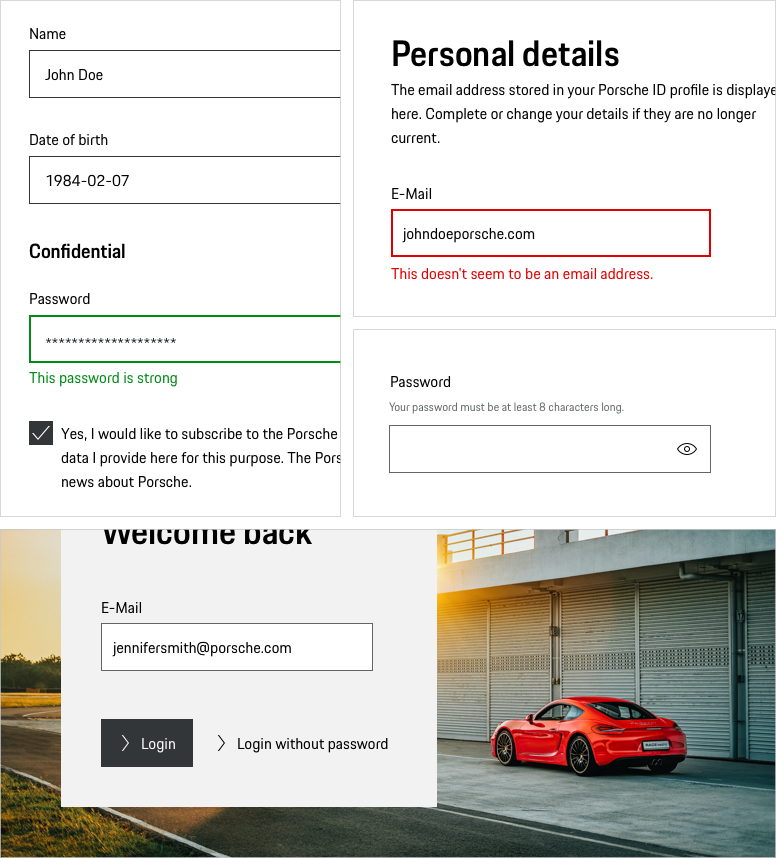
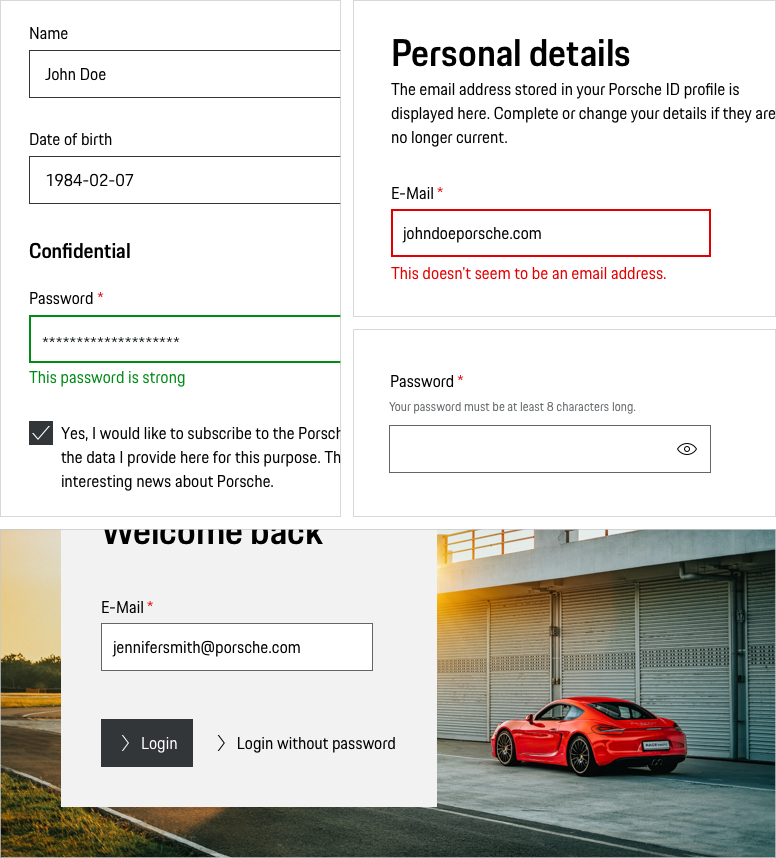
Bug fixes in forms docu | op | #992

diff --git a/packages/storefront/storefront.config.ts b/packages/storefront/storefront.config.ts
@@ -124,6 +124,10 @@ export const config: StorefrontConfig = {
       Resources: [
         // @ts-ignore
         () => import(`@/pages/patterns/forms/resources.md`)
+      ],
+      Legal: [
+        // @ts-ignore
+        () => import(`@/pages/patterns/forms/legal.md`)
       ]
     }
   },

diff --git a/packages/storefront/src/pages/patterns/forms/guidelines.md b/packages/storefront/src/pages/patterns/forms/guidelines.md
@@ -233,7 +233,7 @@ When it makes sense you should set input constraints to your Text Fields and Tex
 Good forms provide **valuable support** – both **for success**, when the user completes form fields correctly, and **for error cases**, when the user makes a wrong entry. However, there's a direct correlation between *how* and *when* users are presented with form validation errors and the pace and effort with which they are able to resolve them.
 
 
-![Form layouts with error and success notification](../../../assets/patterns-forms-validation.svg)
+![Form layouts with error and success notification](../../../assets/patterns-forms-validation.png)
 
 _Example input field with error | 1. Asterisk, 2. Border highlight, 3. Error message_
 
@@ -361,44 +361,6 @@ Always stick to the defined [Accessibility criteria](#/accessibility/introductio
 * **Provide a sufficient click/touch area** for each component. [Apple’s Human Interface Guidelines](https://developer.apple.com/design/human-interface-guidelines/ios/visual-design/adaptivity-and-layout/) suggest providing a tappable area of 44 x 44 px for all controls. As this "safe zone" might result in large spacings between components (just think of a stacked checkbox list) or overlapping of the tappable areas, we'd recommend defining the tappable area component-based, as the size of the tappable area is also a matter of the general height *and* width of a component. You'll find detailed information in the respective component guidelines.
 
 ---
-
-## Privacy and EU data protection guidelines
-
-We also have the responsibility to sign the consent form (Declaration of consent) in accordance with the EU data protection basic regulation (DSGVO) by using design guidelines and implement measures in such a way that consent is given by the user voluntarily. Studies show that especially when the user does not feel that they have control over their data or that the disclosure would have (or may cause) negative consequences they won’t share their data. Therefore, not only the benefits of data disclosure should be transparent to the user (for example the sending of an advertising brochure), but also the exclusion of possible risks (for example, that data will not be passed on to third parties for undefined purposes) and give a feeling of control.
-
-In principle, it is helpful for a successful implementation of the maxims to be oriented towards the function of the purpose statement: The purpose must allow users to understand the consequences of data sharing and handling for them. A successful implementation of the maxims therefore enables the users to effectively control the consequences indicated by the purposes.
-In the section **Handle with care: Sensitive and personal data** we already mentioned some guidelines about handling personal data. In this section we will give you a little more insights about all of the Privacy Principles. 
-
-
-**The Privacy UX Design Guidelines Principles are:**
-
-1. **Limitation**
-   A dialogue may only collect the data required for the specified purpose. Which and how much personal data may be collected therefore depends on how concrete (or how general) the purposes were expressed. If, for example, a data processor needs to know whether the user is already of age in order to release a service, this only requires the user to indicate the age of majority, but not the specific age.
-
-2. **Selection and control**
-    The users must always be able to give (or refuse) their consent for each individual purpose. In doing so, they must actively decide to save data for a clearly defined purposes (so-called opt-in). The users must therefore take active steps to give their declaration of consent, for example by clicking a checkbox or toggling an online form. On the other hand, a ticked box does not require any active action by the users and does not provide a valid declaration of consent in the general view. If the data collection is to be based on the user's declaration of consent (and not another legal basis), the user must therefore expressly have agreed to this before the data may be collected. Because users evaluate the sensitivity of their data differently, they should always be given as much choice as possible (for example, how to contact the users).
-
-3. **Explanation**
-    Can the user understand why which data is collected? Textual and/or graphic explanatory guides can be used for this purpose. In addition, added value should also be presented visually whenever possible. Putting things into context (explained in the next section) is another important strategy to make the collection of data "meaningful" for the user. At the very best, the user can also be informed about the extent to which the disadvantages feared by him with the data disclosure are already excluded, reduced or at least controlled by the data processor (i.e. the Porsche AG) due to the protective measures provided. Measures are, for example, the pseudonymisation of personal data, their encryption as well as technical-organizational access controls.
-
-4. **Contextualisation of the consent**
-    Consent should preferably be obtained "just in time", i.e. at the time when it is necessary (but no later than at the time of collection of the data or at the time when data is processed for a different purpose than previously indicated). The justification for collecting and obtaining consent, both in terms of time, space and logic, should be sent directly and without interruption to be tied to each other.
-
-5. **Controllability**
-    Dialogs should be controllable in order to make the flow of processes transparent for the user (for example, when entering data). There should be no dependencies and couplings between providing data or the booking of services. Instead, it should be possible to agree to each processing purpose individually. Users should be able to manipulate, terminate and resume processes at any time, even retroactively. An attractive controllability is especially important for mobile devices. For this purpose, the user must be provided with sufficient information for orientation and navigation. This also refers to accurate, friendly, and complete feedback in case of unexpected behavior or errors.
-
-6. **Support**
-    Filling in fields or forms should always be supported as much as possible. This includes responsive design, error tolerances, auto-completion, search function (for example for dropdowns), logical (alphabetical) sorting, the use of common formats for for example date entries. Relationships can also exist across fields.
-
-7. **Minimalism and continuity**
-    Dialogues and processes should have a clear overall structure and clearly distinguish individual topics or contents to separate them from each other. Visual and informational overload must be avoided. This prevents the user from being overwhelmed and gives a feeling of familiarity and security.
-
-8. **Appreciation**
-    The consideration of correct salutations, titles and names, if necessary, is an element that creates trust and closeness. Individuality should be respected (for example no pressure to choose 'man' or 'woman' in a form field for gender selection).  This also includes the possibility for the user to specify titles (for example Prof. Dr.).
-
-9. **User testing**
-    These principles describe possible implementations of the consent form, which should enable the user to effectively control the consequences or risks associated with the disclosure of data. In order to ensure a successful implementation, this must be contextualised (i.e. tested empirically with users using the respective touchpoint). This does not only mean technical functional tests.  Rather, it must be checked whether the concrete implementation of the principles really leads to the users' understanding of the consequences and risks of data disclosure and feel that they can be effectively controlled.
-
 
 ## Related components
 

diff --git a/packages/storefront/src/pages/patterns/forms/legal.md b/packages/storefront/src/pages/patterns/forms/legal.md
@@ -1,0 +1,36 @@
+## Privacy and EU data protection guidelines
+
+We also have the responsibility to sign the consent form (Declaration of consent) in accordance with the EU data protection basic regulation (DSGVO) by using design guidelines and implement measures in such a way that consent is given by the user voluntarily. Studies show that especially when the user does not feel that they have control over their data or that the disclosure would have (or may cause) negative consequences they won’t share their data. Therefore, not only the benefits of data disclosure should be transparent to the user (for example the sending of an advertising brochure), but also the exclusion of possible risks (for example, that data will not be passed on to third parties for undefined purposes) and give a feeling of control.
+
+In principle, it is helpful for a successful implementation of the maxims to be oriented towards the function of the purpose statement: The purpose must allow users to understand the consequences of data sharing and handling for them. A successful implementation of the maxims therefore enables the users to effectively control the consequences indicated by the purposes.
+In the section **Handle with care: Sensitive and personal data** we already mentioned some guidelines about handling personal data. In this section we will give you a little more insights about all of the Privacy Principles. 
+
+
+**The Privacy UX Design Guidelines Principles are:**
+
+1. **Limitation**
+   A dialogue may only collect the data required for the specified purpose. Which and how much personal data may be collected therefore depends on how concrete (or how general) the purposes were expressed. If, for example, a data processor needs to know whether the user is already of age in order to release a service, this only requires the user to indicate the age of majority, but not the specific age.
+
+2. **Selection and control**
+    The users must always be able to give (or refuse) their consent for each individual purpose. In doing so, they must actively decide to save data for a clearly defined purposes (so-called opt-in). The users must therefore take active steps to give their declaration of consent, for example by clicking a checkbox or toggling an online form. On the other hand, a ticked box does not require any active action by the users and does not provide a valid declaration of consent in the general view. If the data collection is to be based on the user's declaration of consent (and not another legal basis), the user must therefore expressly have agreed to this before the data may be collected. Because users evaluate the sensitivity of their data differently, they should always be given as much choice as possible (for example, how to contact the users).
+
+3. **Explanation**
+    Can the user understand why which data is collected? Textual and/or graphic explanatory guides can be used for this purpose. In addition, added value should also be presented visually whenever possible. Putting things into context (explained in the next section) is another important strategy to make the collection of data "meaningful" for the user. At the very best, the user can also be informed about the extent to which the disadvantages feared by him with the data disclosure are already excluded, reduced or at least controlled by the data processor (i.e. the Porsche AG) due to the protective measures provided. Measures are, for example, the pseudonymisation of personal data, their encryption as well as technical-organizational access controls.
+
+4. **Contextualisation of the consent**
+    Consent should preferably be obtained "just in time", i.e. at the time when it is necessary (but no later than at the time of collection of the data or at the time when data is processed for a different purpose than previously indicated). The justification for collecting and obtaining consent, both in terms of time, space and logic, should be sent directly and without interruption to be tied to each other.
+
+5. **Controllability**
+    Dialogs should be controllable in order to make the flow of processes transparent for the user (for example, when entering data). There should be no dependencies and couplings between providing data or the booking of services. Instead, it should be possible to agree to each processing purpose individually. Users should be able to manipulate, terminate and resume processes at any time, even retroactively. An attractive controllability is especially important for mobile devices. For this purpose, the user must be provided with sufficient information for orientation and navigation. This also refers to accurate, friendly, and complete feedback in case of unexpected behavior or errors.
+
+6. **Support**
+    Filling in fields or forms should always be supported as much as possible. This includes responsive design, error tolerances, auto-completion, search function (for example for dropdowns), logical (alphabetical) sorting, the use of common formats for for example date entries. Relationships can also exist across fields.
+
+7. **Minimalism and continuity**
+    Dialogues and processes should have a clear overall structure and clearly distinguish individual topics or contents to separate them from each other. Visual and informational overload must be avoided. This prevents the user from being overwhelmed and gives a feeling of familiarity and security.
+
+8. **Appreciation**
+    The consideration of correct salutations, titles and names, if necessary, is an element that creates trust and closeness. Individuality should be respected (for example no pressure to choose 'man' or 'woman' in a form field for gender selection).  This also includes the possibility for the user to specify titles (for example Prof. Dr.).
+
+9. **User testing**
+    These principles describe possible implementations of the consent form, which should enable the user to effectively control the consequences or risks associated with the disclosure of data. In order to ensure a successful implementation, this must be contextualised (i.e. tested empirically with users using the respective touchpoint). This does not only mean technical functional tests.  Rather, it must be checked whether the concrete implementation of the principles really leads to the users' understanding of the consequences and risks of data disclosure and feel that they can be effectively controlled.

diff --git a/packages/components/src/components/form/text-field-wrapper/text-field-wrapper.design.md b/packages/components/src/components/form/text-field-wrapper/text-field-wrapper.design.md
@@ -76,7 +76,7 @@ The label text (always in copytext) gives the user an information about the opti
 Enables users to enter a single line of text.
 
 ### Width
-Text fields have no specific width. Depending on the layout you can set the width either depending on the length of the text or by adjusting it to the grid. Baymard Institute usability study showed that: “If a field was too long or too short, the test subjects started to wonder if they had misunderstood the label (…).” [Baymard Institute](https://baymard.com/blog/form-field-usability-matching-user-expectations) The initial width of the sketch symbol is set to 272 px (corresponds to the grid width on viewport XS). Please find more information in the [Form pattern guideline](#/patterns/forms).
+Text fields have no specific width. Depending on the layout you can set the width either depending on the length of the text or by adjusting it to the grid. Please find more information in the [Form pattern guideline](#/patterns/forms).
 
 ### Validation and error
 Validation text for a field is placed right below the field box in order to make it clear for the user which text field the validation belongs to.
@@ -91,15 +91,7 @@ According to the "law of proximity" in Gestalt psychology ([Laws of UX](https://
 
 ### Mandatory and optional fields
 
-Generally, it’s recommended to avoid optional fields in forms due to the fact that we should not give the user the feeling of having to give information that is not absolutely necessary. That being said, we would then have to label almost every (mandatory) form field with the well-known asterisk accompanied by a global explanation (“All fields marked with * ...“). In order to give the Porsche forms a more positive connotation and for the reason that users are more likely to provide voluntary information, we  recommend to mark only optional fields by adding “(optional)” next to the input label.
-
-By doing so…
- * … users feel less overwhelmed as there are way less "(optional)" labels than there would be asterisks.
- * … users do not have to read a global explanation ("All fields marked with * ...").
- * … the asterisk is obsolete or freely available for other purposes, e.g. footnotes.
- * … forms not only seem to be more positive, but also look more cleaned up in general.
-
-<p-text-field-wrapper label="Some label (optional)"><input type="text" name="some-name"></p-text-field-wrapper>
+Mark required fields. Our tests (optional vs. required with an asterisk) showed that mark required fields with an red asterisk is an easy way to improve the usability of forms. Please find more information in the [Form pattern guideline](#/patterns/forms).
 
 ### Disabled state
 

diff --git a/packages/components/src/components/form/textarea-wrapper/textarea-wrapper.design.md b/packages/components/src/components/form/textarea-wrapper/textarea-wrapper.design.md
@@ -45,8 +45,7 @@ The label text (always in copytext) gives the user an information about the opti
 ### Input area
 Enables users to enter a multiline text.
 
-### Width and height
-Textareas have no specific width. Depending on the layout you can set the width either depending on the length of the text or by adjusting it to the grid. 
+### Height
 We recommend a minimum height of 192 px (equals 7 text lines). Unless predefined characters are specified. 
 In this case we recommend to adapt the Textarea to the content. Please find more information in the [Form pattern guideline](#/patterns/forms).
 
@@ -68,17 +67,7 @@ Please find more information in the [Form pattern guideline](#/patterns/forms).
 
 ### Mandatory and optional fields
 
-Generally, it’s recommended to avoid optional fields in forms due to the fact that we should not give the user the feeling of having to give information that is not absolutely necessary. 
-That being said, we would then have to label almost every (mandatory) form field with the well-known asterisk accompanied by a global explanation (“All fields marked with * ...“).
- n order to give the Porsche forms a more positive connotation and for the reason that users are more likely to provide voluntary information, we  recommend to mark only optional fields by adding “(optional)” next to the input label.
-
-By doing so…
-* … user feel less overwhelmed, as there are way less “(optional)” labels than there would be asterisks.
-* … users do not have to read a global explanation (“All fields marked with * ...“).
-* … the asterisk is obsolete or freely available for other purposes, e.g. footnotes.
-* … forms not only seem to be more positive, but also look more cleaned up in general.
-
-<p-text-field-wrapper label="Some label (optional)"><input type="text" name="some-name"></p-text-field-wrapper>
+Mark required fields. Our tests (optional vs. required with an asterisk) showed that mark required fields with an red asterisk is an easy way to improve the usability of forms. Please find more information in the [Form pattern guideline](#/patterns/forms).
 
 
 ### Disabled state

diff --git a/packages/components/src/components/form/select-wrapper/select-wrapper.design.md b/packages/components/src/components/form/select-wrapper/select-wrapper.design.md
@@ -23,7 +23,7 @@ The component Pure (without label) is only used if the context clearly describes
 
 ### Placeholder
 
-Placeholder text disappears when a user types in the input. If a user doesn’t enter a value and moves to another part of a form, the placeholder text reappears in the former text box. However, using placeholder text is not recommended since users can misinterpret it as already filled in content. Please find more information in the [Form pattern guideline](#/patterns/forms).
+Placeholder text disappears when a user types in the input. If a user doesn’t enter a value and moves to another part of a form, the placeholder text reappears in the former text box. Use the placeholder text only in exceptions. Please find more information in the [Form pattern guideline](#/patterns/forms).
 
 ### Description text
 
